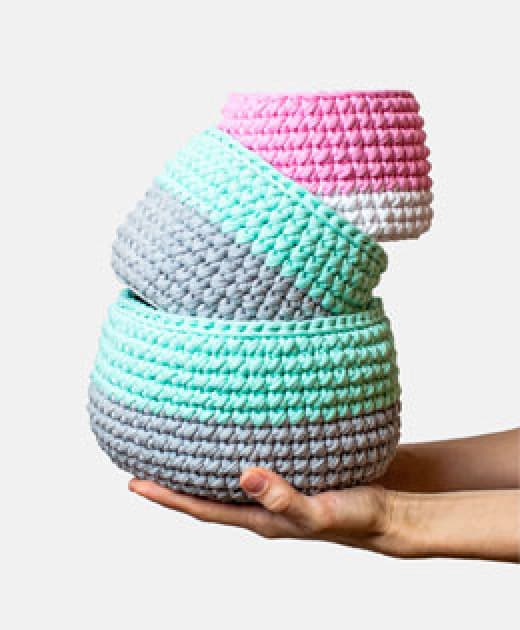
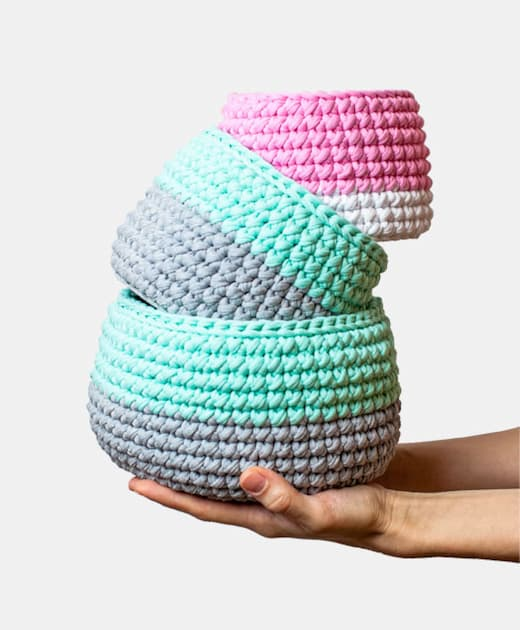
Подключил изображение в формате WEBP

diff --git a/source/index.html b/source/index.html
@@ -114,6 +114,13 @@
         </div>
         <div class="promo__ware">
           <picture>
+            <!-- webp -->
+            <source type="image/webp" media="(min-width: 1150px)"
+              srcset="img/promo/promo-desktop@1x.webp 1x, img/promo/promo-desktop@2x.webp 2x">
+            <source type="image/webp" media="(min-width: 768px)"
+              srcset="img/promo/promo-tablet@1x.webp 1x, img/promo/promo-tablet@2x.webp 2x">
+            <source type="image/webp" srcset="img/promo/promo-mobile@1x.webp 1x, img/promo/promo-mobile@2x.webp 2x">
+            <!-- jpg -->
             <source media="(min-width: 1150px)"
               srcset="img/promo/promo-desktop@1x.jpg 1x, img/promo/promo-desktop@2x.jpg 2x">
             <source media="(min-width: 768px)"
